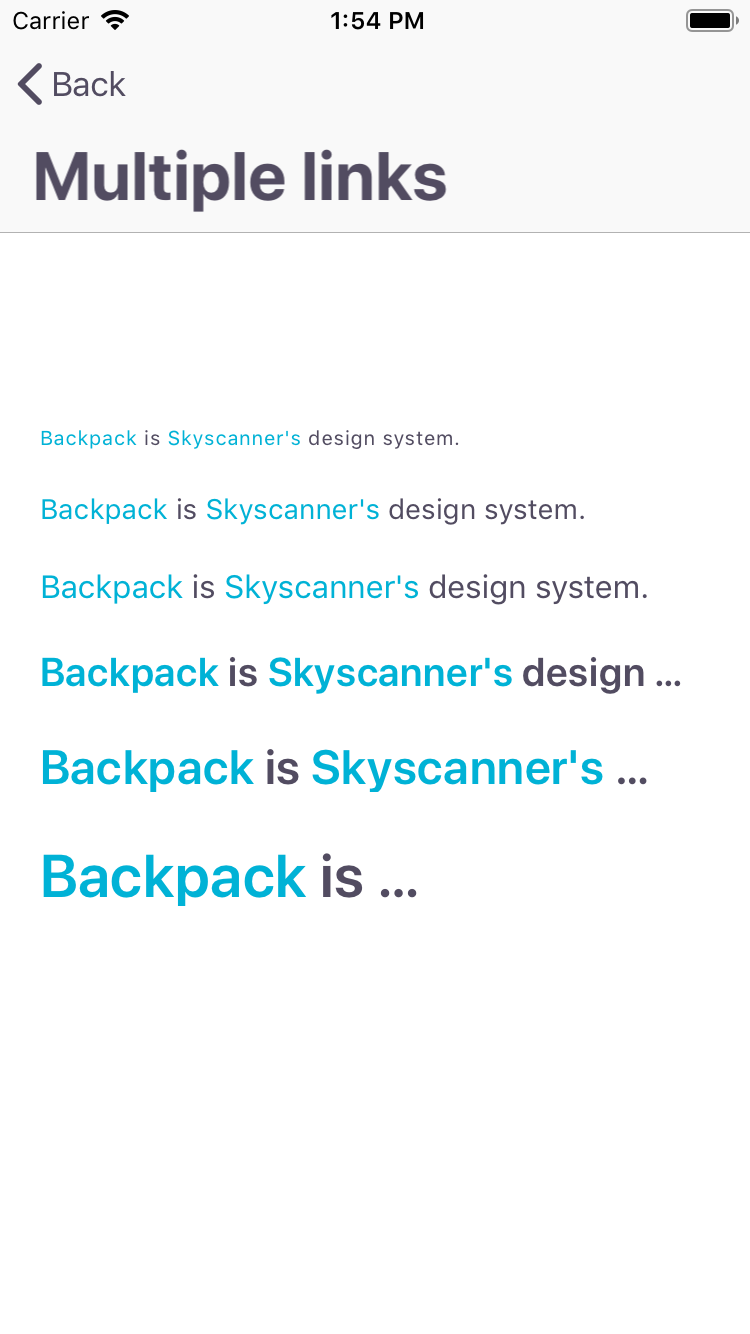
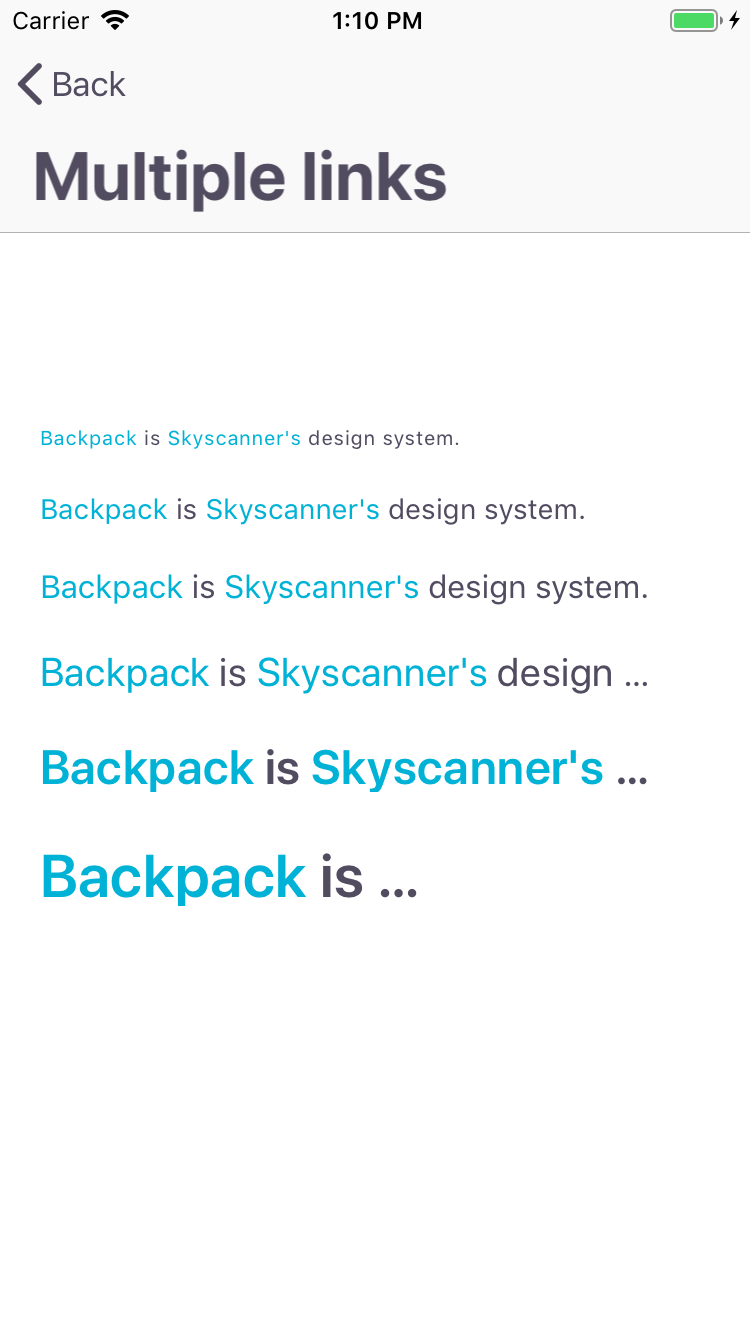
[BPK-2596] Alternate link styles

Changed region(s): [[0.0613, 0.4918, 0.8587, 0.5225], [0.4293, 0.0, 0.5827, 0.0307], [0.8893, 0.0, 0.9813, 0.0307]]

diff --git a/Example/Backpack/View Controllers/TappableLinkLabelsViewController.swift b/Example/Backpack/View Controllers/TappableLinkLabelsViewController.swift
@@ -26,16 +26,18 @@ enum LinkCount {
 
 class TappableLinkLabelsViewController: UIViewController {
     var linkCount: LinkCount = .single
+    var style: BPKTappableLinkLabelStyle = .default
     var fontStyles = [
         BPKFontStyle.textCaps,
         BPKFontStyle.textSm,
         BPKFontStyle.textBase,
-        BPKFontStyle.textLgEmphasized,
+        BPKFontStyle.textLg,
         BPKFontStyle.textXlEmphasized,
         BPKFontStyle.textXxlEmphasized
     ]
 
     @IBOutlet var tappableLinks: [TappableLinkLabel]!
+    @IBOutlet var displayView: UIView!
 
     override func viewDidLoad() {
         super.viewDidLoad()
@@ -47,6 +49,8 @@ class TappableLinkLabelsViewController: UIViewController {
         let firstLinkContent = "Backpack"
         let secondLinkContent = "Skyscanner's"
 
+        displayView.backgroundColor = style == .alternate ? Color.blue500 : Color.white
+
         let firstRange = NSRange(content.range(of: firstLinkContent)!, in: content)
         let secondRange = NSRange(content.range(of: secondLinkContent)!, in: content)
 
@@ -54,6 +58,7 @@ class TappableLinkLabelsViewController: UIViewController {
         for tappableLink in tappableLinks {
             tappableLink.text = content
             tappableLink.fontStyle = fontStyles[linkIndex]
+            tappableLink.style = style
             tappableLink.delegate = self
 
             tappableLink.addLink(to: URL(string: "https://backpack.github.io/")!, with: firstRange)

diff --git a/Example/Backpack/View Controllers/TappableLinkLabelsSelectorViewController.swift b/Example/Backpack/View Controllers/TappableLinkLabelsSelectorViewController.swift
@@ -29,6 +29,10 @@ class TappableLinkLabelsSelectorViewController: UITableViewController {
         case "MultipleLinks":
             segue.destination.title = "Multiple links"
             maybeTappableLinkLabelsController?.linkCount = .double
+        case "AlternateStyle":
+            segue.destination.title = "Alternate style links"
+            maybeTappableLinkLabelsController?.linkCount = .double
+            maybeTappableLinkLabelsController?.style = .alternate
         default:
             fatalError("Unknown segue identifer \(segue.identifier.debugDescription)")
         }

diff --git a/Backpack/TappableLinkLabel/Classes/BPKTappableLinkLabel.m b/Backpack/TappableLinkLabel/Classes/BPKTappableLinkLabel.m
@@ -15,16 +15,16 @@
  * See the License for the specific language governing permissions and
  * limitations under the License.
  */
-#import "BPKTappableLinkDefinition.h"
 #import "BPKTappableLinkLabel.h"
-#import <TTTAttributedLabel/TTTAttributedLabel.h>
+#import "BPKTappableLinkDefinition.h"
 #import <Backpack/Color.h>
 #import <Backpack/Common.h>
 #import <Backpack/Font.h>
+#import <TTTAttributedLabel/TTTAttributedLabel.h>
 
 NS_ASSUME_NONNULL_BEGIN
 
-@interface BPKTappableLinkLabel() <TTTAttributedLabelDelegate>
+@interface BPKTappableLinkLabel () <TTTAttributedLabelDelegate>
 
 @property(readonly, strong) NSMutableArray<BPKTappableLinkDefinition *> *persistedLinks;
 @property(readonly, strong) TTTAttributedLabel *contentView;
@@ -71,6 +71,7 @@ NS_ASSUME_NONNULL_BEGIN
     _fontStyle = style;
     _contentView = [[TTTAttributedLabel alloc] initWithFrame:CGRectZero];
     _linkColor = BPKColor.blue500;
+    _style = BPKTappableLinkLabelStyleDefault;
     self.contentView.delegate = self;
 
     [self addSubview:self.contentView];
@@ -78,11 +79,11 @@ NS_ASSUME_NONNULL_BEGIN
     self.translatesAutoresizingMaskIntoConstraints = NO;
     self.contentView.translatesAutoresizingMaskIntoConstraints = NO;
     [NSLayoutConstraint activateConstraints:@[
-                                              [self.contentView.leadingAnchor constraintEqualToAnchor:self.leadingAnchor],
-                                              [self.contentView.topAnchor constraintEqualToAnchor:self.topAnchor],
-                                              [self.bottomAnchor constraintEqualToAnchor:self.contentView.bottomAnchor],
-                                              [self.trailingAnchor constraintEqualToAnchor:self.contentView.trailingAnchor]
-                                              ]];
+        [self.contentView.leadingAnchor constraintEqualToAnchor:self.leadingAnchor],
+        [self.contentView.topAnchor constraintEqualToAnchor:self.topAnchor],
+        [self.bottomAnchor constraintEqualToAnchor:self.contentView.bottomAnchor],
+        [self.trailingAnchor constraintEqualToAnchor:self.contentView.trailingAnchor]
+    ]];
 
     // This initial call to set up colours is needed in case there is no theme initially applied
     [self updateTextColors];
@@ -92,14 +93,56 @@ NS_ASSUME_NONNULL_BEGIN
     [self.persistedLinks removeAllObjects];
 }
 
-- (void)updateTextColors {
-    self.contentView.linkAttributes =
-    @{NSForegroundColorAttributeName: self.linkColor, NSUnderlineStyleAttributeName: @(NSUnderlineStyleNone)};
+- (BPKFontStyle)getEmphasizedFontStyleFor:(BPKFontStyle)fontStyle {
+    switch (fontStyle) {
+    case BPKFontStyleTextCaps:
+        return BPKFontStyleTextCapsEmphasized;
+    case BPKFontStyleTextXs:
+        return BPKFontStyleTextXsEmphasized;
+    case BPKFontStyleTextSm:
+        return BPKFontStyleTextSmEmphasized;
+    case BPKFontStyleTextBase:
+        return BPKFontStyleTextBaseEmphasized;
+    case BPKFontStyleTextLg:
+        return BPKFontStyleTextLgEmphasized;
+    case BPKFontStyleTextXl:
+        return BPKFontStyleTextXlEmphasized;
+    case BPKFontStyleTextXxl:
+        return BPKFontStyleTextXxlEmphasized;
+    case BPKFontStyleTextXxxl:
+        return BPKFontStyleTextXxxlEmphasized;
+    case BPKFontStyleTextXlEmphasized:
+        return BPKFontStyleTextXlHeavy;
+    case BPKFontStyleTextXxlEmphasized:
+        return BPKFontStyleTextXxlHeavy;
+    case BPKFontStyleTextXxxlEmphasized:
+        return BPKFontStyleTextXxxlHeavy;
+    default:
+        NSAssert(
+            NO, @"Alternate style BPKTappableLinkLabels must have a more emphasized alternative to the fontStyle set.");
+    }
+    return fontStyle;
+}
 
-    self.contentView.activeLinkAttributes = @{
-                                        NSForegroundColorAttributeName: [self.linkColor colorWithAlphaComponent:0.2],
-                                        NSUnderlineStyleAttributeName: @(NSUnderlineStyleNone)
-                                        };
+- (void)updateTextColors {
+    UIColor *linkColor = self.style == BPKTappableLinkLabelStyleAlternate ? BPKColor.white : self.linkColor;
+    BPKFontStyle fontStyle = self.style == BPKTappableLinkLabelStyleAlternate
+                                 ? [self getEmphasizedFontStyleFor:self.fontStyle]
+                                 : self.fontStyle;
+
+    NSDictionary *linkCustomAttributes =
+        @{NSForegroundColorAttributeName: linkColor, NSUnderlineStyleAttributeName: @(NSUnderlineStyleNone)};
+    self.contentView.linkAttributes = [BPKFont attributesForFontStyle:fontStyle
+                                                 withCustomAttributes:linkCustomAttributes
+                                                          fontMapping:self.fontMapping];
+
+    NSDictionary *activeLinkCustomAttributes = @{
+        NSForegroundColorAttributeName: [linkColor colorWithAlphaComponent:0.2],
+        NSUnderlineStyleAttributeName: @(NSUnderlineStyleNone)
+    };
+    self.contentView.activeLinkAttributes = [BPKFont attributesForFontStyle:fontStyle
+                                                       withCustomAttributes:activeLinkCustomAttributes
+                                                                fontMapping:self.fontMapping];
 
     [self updateTextDisplay];
 }
@@ -110,16 +153,17 @@ NS_ASSUME_NONNULL_BEGIN
         return;
     }
 
+    NSDictionary *customAttributes =
+        self.style == BPKTappableLinkLabelStyleAlternate ? @{NSForegroundColorAttributeName: BPKColor.white} : @{};
     NSDictionary<NSAttributedStringKey, id> *defaultAttributes = [BPKFont attributesForFontStyle:self.fontStyle
+                                                                            withCustomAttributes:customAttributes
                                                                                      fontMapping:self.fontMapping];
 
-    NSAttributedString *newString = [[NSAttributedString alloc] initWithString:self.text
-                                                                    attributes:defaultAttributes];
-
+    NSAttributedString *newString = [[NSAttributedString alloc] initWithString:self.text attributes:defaultAttributes];
     self.contentView.text = newString;
 
     // Re-apply the links
-    for( BPKTappableLinkDefinition *linkDefinition in _persistedLinks) {
+    for (BPKTappableLinkDefinition *linkDefinition in _persistedLinks) {
         [self.contentView addLinkToURL:linkDefinition.url withRange:linkDefinition.range];
     }
 }
@@ -161,6 +205,14 @@ NS_ASSUME_NONNULL_BEGIN
 - (void)setLinkColor:(UIColor *)linkColor {
     if (_linkColor != linkColor) {
         _linkColor = linkColor;
+
+        [self updateTextColors];
+    }
+}
+
+- (void)setStyle:(BPKTappableLinkLabelStyle)style {
+    if (_style != style) {
+        _style = style;
 
         [self updateTextColors];
     }

diff --git a/Example/Tests/BPKTappableLinkLabelTest.m b/Example/Tests/BPKTappableLinkLabelTest.m
@@ -61,8 +61,21 @@ NS_ASSUME_NONNULL_BEGIN
     [self testLabelSizeWithStyle:BPKFontStyleTextXxxlHeavy fontMapping:fontMapping];
 }
 
-- (void)testLabelSizeWithStyle:(BPKFontStyle)fontStyle
-           fontMapping:(BPKFontMapping *_Nullable)fontMapping {
+- (void)testSizeWithAlternateStyle {
+    [self testAlternateLabelSizeWithStyle:BPKFontStyleTextXs];
+    [self testAlternateLabelSizeWithStyle:BPKFontStyleTextCaps];
+    [self testAlternateLabelSizeWithStyle:BPKFontStyleTextSm];
+    [self testAlternateLabelSizeWithStyle:BPKFontStyleTextBase];
+    [self testAlternateLabelSizeWithStyle:BPKFontStyleTextLg];
+    [self testAlternateLabelSizeWithStyle:BPKFontStyleTextXl];
+    [self testAlternateLabelSizeWithStyle:BPKFontStyleTextXlEmphasized];
+    [self testAlternateLabelSizeWithStyle:BPKFontStyleTextXxl];
+    [self testAlternateLabelSizeWithStyle:BPKFontStyleTextXxlEmphasized];
+    [self testAlternateLabelSizeWithStyle:BPKFontStyleTextXxxl];
+    [self testAlternateLabelSizeWithStyle:BPKFontStyleTextXxxlEmphasized];
+}
+
+- (void)testLabelSizeWithStyle:(BPKFontStyle)fontStyle fontMapping:(BPKFontMapping *_Nullable)fontMapping {
     BPKTappableLinkLabel *label = [[BPKTappableLinkLabel alloc] initWithFontStyle:fontStyle];
     label.text = @"Hello world";
     [label addLinkToURL:[NSURL URLWithString:@"https"] withRange:NSMakeRange(0, 5)];
@@ -73,6 +86,18 @@ NS_ASSUME_NONNULL_BEGIN
 
     XCTAssert(fabs(sizeWithoutFontMapping.width - sizeWithFontMapping.width) > 0.01);
     XCTAssert(fabs(sizeWithoutFontMapping.height - sizeWithFontMapping.height) > 0.01);
+}
+
+- (void)testAlternateLabelSizeWithStyle:(BPKFontStyle)fontStyle {
+    BPKTappableLinkLabel *label = [[BPKTappableLinkLabel alloc] initWithFontStyle:fontStyle];
+    label.text = @"Hello world";
+    [label addLinkToURL:[NSURL URLWithString:@"https"] withRange:NSMakeRange(0, 5)];
+    CGSize sizeWithDefaultStyle = label.size;
+
+    label.style = BPKTappableLinkLabelStyleAlternate;
+    CGSize sizeWithAlternateStyle = label.size;
+
+    XCTAssert(sizeWithDefaultStyle.width < sizeWithAlternateStyle.width);
 }
 
 @end

diff --git a/Backpack/TappableLinkLabel/Classes/BPKTappableLinkLabel.h b/Backpack/TappableLinkLabel/Classes/BPKTappableLinkLabel.h
@@ -23,6 +23,22 @@
 
 NS_ASSUME_NONNULL_BEGIN
 
+/**
+ * These constants represent the different styles available for BPKTappableLinkLabels
+ */
+typedef NS_SWIFT_NAME(TappableLinkLabelStyle) NS_ENUM(NSUInteger, BPKTappableLinkLabelStyle){
+
+    /**
+     * Blue links within dark-gray labels
+     */
+    BPKTappableLinkLabelStyleDefault,
+
+    /**
+     * White bold links within white labels
+     */
+    BPKTappableLinkLabelStyleAlternate,
+};
+
 @class BPKFontMapping;
 /**
  * `BPKTappableLinkLabel` is a subclass of `UIView` which uses the Skyscanner style for labels containing tappable text.
@@ -39,6 +55,12 @@ NS_SWIFT_NAME(TappableLinkLabel) IB_DESIGNABLE @interface BPKTappableLinkLabel :
 @property(nonatomic, readwrite) BPKFontStyle fontStyle;
 
 /**
+ * The style of tappable label to use
+ * @see BPKTappableLabelStyle
+ */
+@property(nonatomic, readwrite) BPKTappableLinkLabelStyle style;
+
+/**
  * The text displayed by the receiver. Setting this clears all configured tappable links.
  */
 @property(nonatomic, copy, nullable) NSString *text;
@@ -47,9 +69,12 @@ NS_SWIFT_NAME(TappableLinkLabel) IB_DESIGNABLE @interface BPKTappableLinkLabel :
  * The size required to draw the the view with the current configuration.
  *
  * This method may return fractional sizes. When setting the size of your view,
- * use the [ceil](https://developer.apple.com/documentation/kernel/1557272-ceil?language=objc) function to fractional values up to the nearest whole number.
+ * use the [ceil](https://developer.apple.com/documentation/kernel/1557272-ceil?language=objc) function to fractional
+ * values up to the nearest whole number.
  *
- * This methods delegates to [size](https://developer.apple.com/documentation/foundation/nsattributedstring?language=objc) method of `NSattributedString`.
+ * This methods delegates to
+ * [size](https://developer.apple.com/documentation/foundation/nsattributedstring?language=objc) method of
+ * `NSattributedString`.
  */
 @property(nonatomic, readonly) CGSize size;
 

diff --git a/Example/SnapshotTests/BPKTappableLinkLabelSnapshotTest.m b/Example/SnapshotTests/BPKTappableLinkLabelSnapshotTest.m
@@ -116,6 +116,28 @@ NS_ASSUME_NONNULL_BEGIN
     FBSnapshotVerifyView(parentView, nil);
 }
 
+- (void)testViewSnapshotWithAlternateStyle {
+    BPKFontStyle styles[] = {BPKFontStyleTextCaps, BPKFontStyleTextXs, BPKFontStyleTextSm,  BPKFontStyleTextBase,
+                             BPKFontStyleTextLg,   BPKFontStyleTextXl, BPKFontStyleTextXxl, BPKFontStyleTextXxxl};
+
+    NSUInteger length = sizeof(styles) / sizeof(styles[0]);
+
+    UIStackView *stackView = [self buildStackView];
+
+    for (NSUInteger i = 0; i < length; i++) {
+        BPKTappableLinkLabel *label = [[BPKTappableLinkLabel alloc] initWithFontStyle:styles[i]];
+        label.text = @"Backpack Rocks";
+        label.style = BPKTappableLinkLabelStyleAlternate;
+        [label addLinkToURL:[NSURL URLWithString:@"https://backpack.github.io/"] withRange:NSMakeRange(0, 8)];
+        [stackView addArrangedSubview:label];
+        [label sizeToFit];
+    }
+    UIView *parentView = [self buildParentView];
+    [parentView addSubview:stackView];
+    parentView.backgroundColor = BPKColor.blue500;
+    FBSnapshotVerifyView(parentView, nil);
+}
+
 - (void)testViewSnapshotWithThemeApplied {
     BPKFontStyle styles[] = {
         BPKFontStyleTextCapsEmphasized, BPKFontStyleTextXsEmphasized,   BPKFontStyleTextSmEmphasized,

diff --git a/Backpack/TappableLinkLabel/Classes/BPKTappableLinkDefinition.m b/Backpack/TappableLinkLabel/Classes/BPKTappableLinkDefinition.m
@@ -24,7 +24,7 @@ NS_ASSUME_NONNULL_BEGIN
 - (instancetype)initWithURL:(NSURL *)url range:(NSRange)range {
     self = [super init];
 
-    if(self) {
+    if (self) {
         _url = url;
         _range = range;
     }
